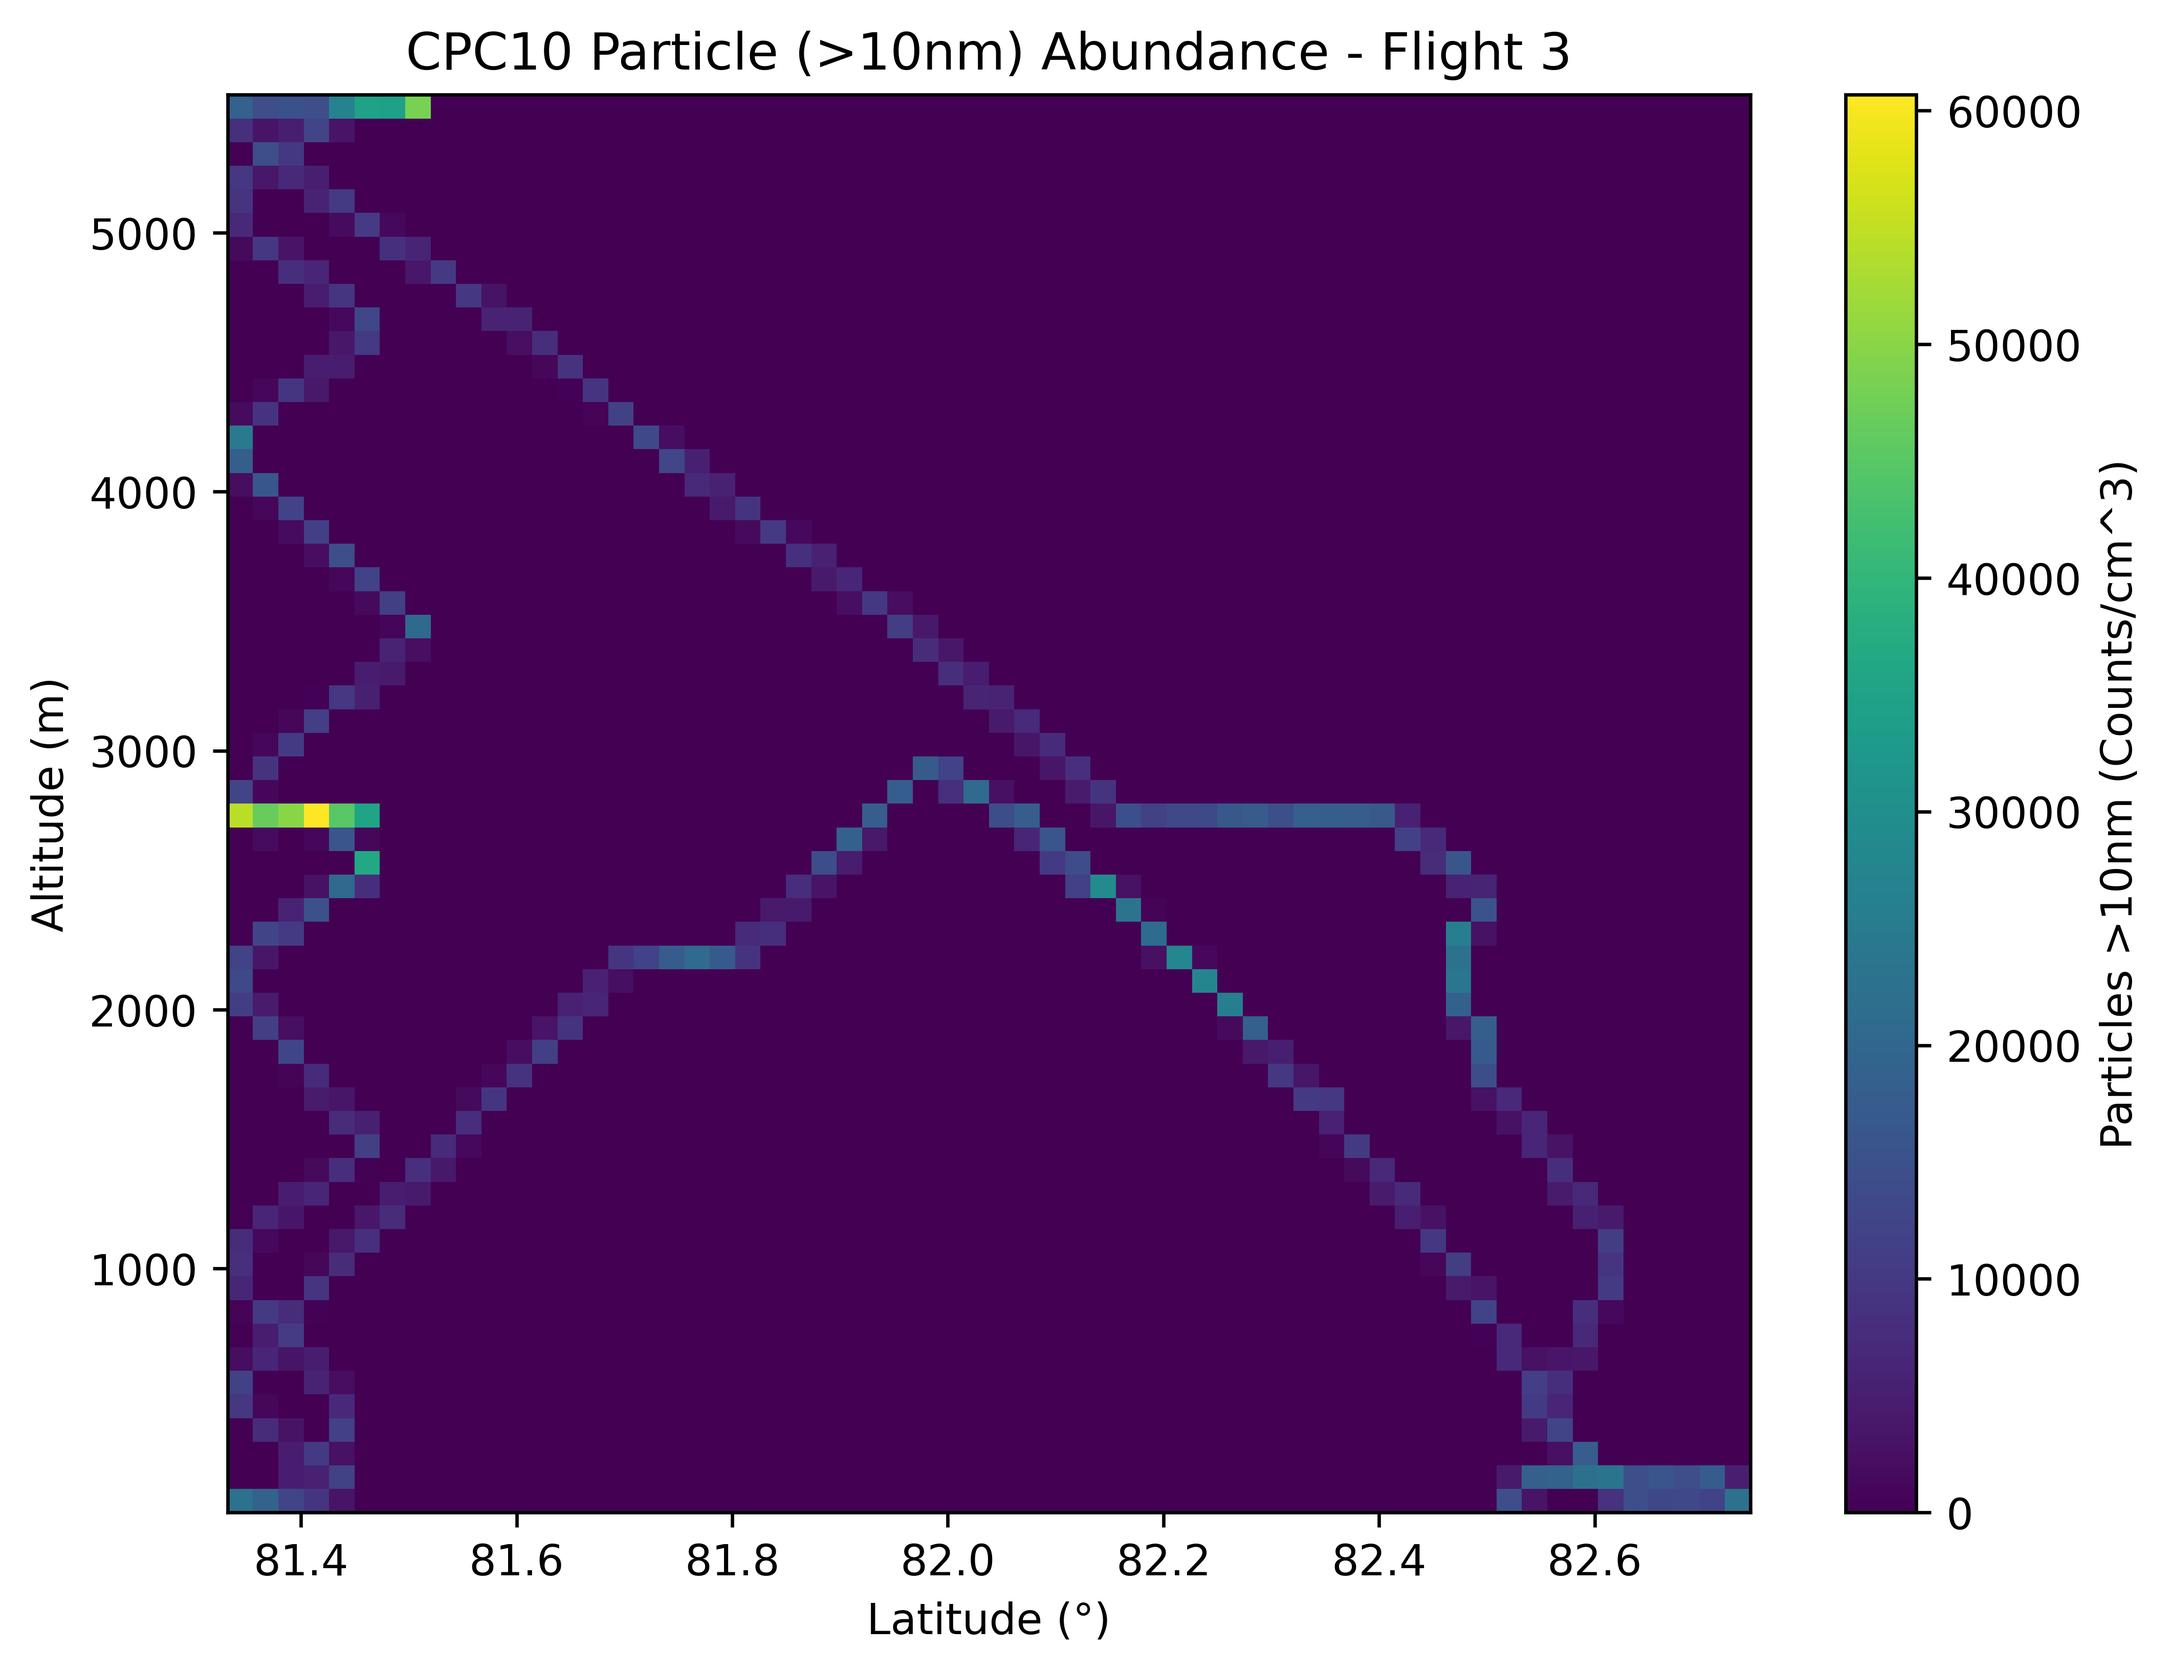
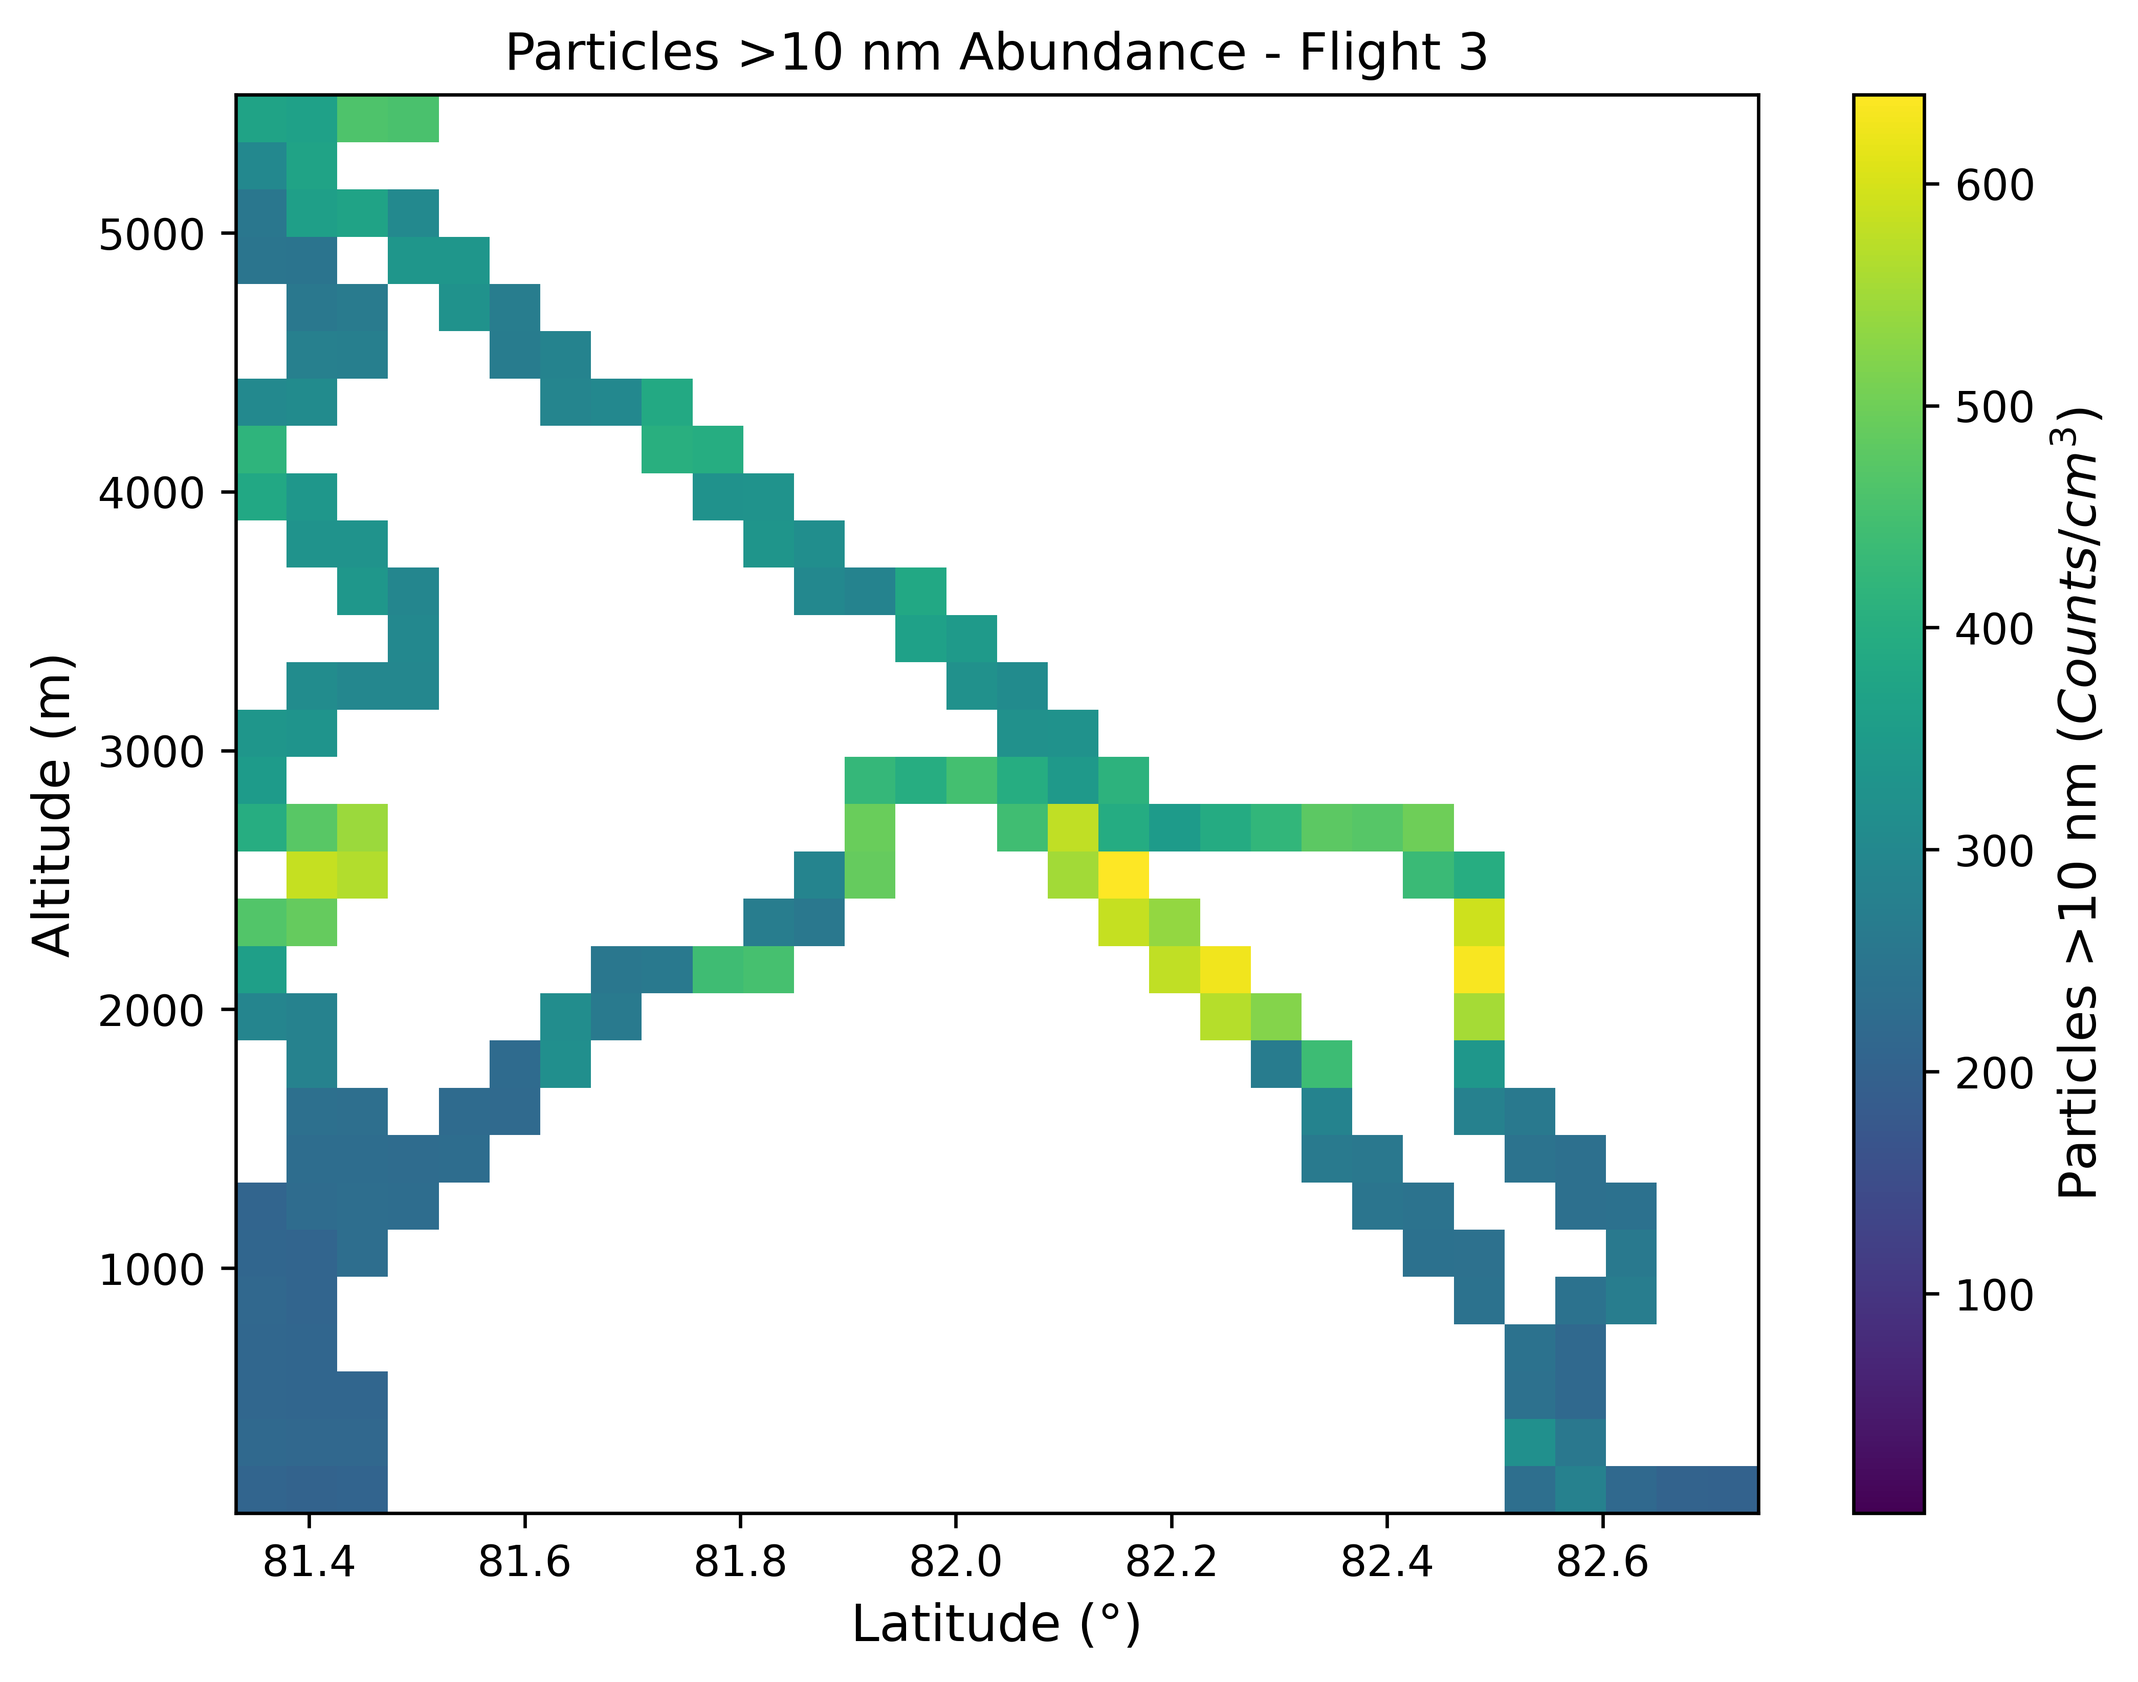
Updated labels, switched incorrectly named CPC3 and CPC10 variables, changed empty histogram boxes to white, changed histogram method from numpy to scipy to easily display median value in each bin and allow handling of NaNs, columns with NaNs are no longer dropped, and all CPC data is put in a singl

diff --git a/src/CurtainPlots/AltitudeLatitudeBinnedCurtainPlot.py b/src/CurtainPlots/AltitudeLatitudeBinnedCurtainPlot.py
@@ -11,6 +11,7 @@ import glob
 import numpy as np
 import pandas as pd
 import matplotlib.pyplot as plt 
+from scipy.stats import binned_statistic_2d
 
 #########################
 ##--Open ICARTT Files--##
@@ -20,7 +21,7 @@ import matplotlib.pyplot as plt
 directory = r"C:\Users\repooley\REP_PhD\NETCARE2015\data"
 
 ##--Select flight (Flight1 thru Flight10)--##
-flight = "Flight2" ##--Flight1 AIMMS file currently broken at line 13234--##
+flight = "Flight2" # Flight1 AIMMS file currently broken at line 13234
 
 ##--Define function that creates datasets from filenames--##
 def find_files(directory, flight, partial_name):
@@ -33,8 +34,8 @@ def find_files(directory, flight, partial_name):
 aimms = icartt.Dataset(find_files(directory, flight, "AIMMS_POLAR6")[0])
 
 ##--CPC data--##
-CPC3 = icartt.Dataset(find_files(directory, flight, 'CPC3772')[0])
-CPC10 = icartt.Dataset(find_files(directory, flight, 'CPC3776')[0])
+CPC10 = icartt.Dataset(find_files(directory, flight, 'CPC3772')[0])
+CPC3 = icartt.Dataset(find_files(directory, flight, 'CPC3776')[0])
 
 #################
 ##--Pull data--##
@@ -140,54 +141,40 @@ for CPC10, T, P in zip(CPC10_conc_aligned, temperature, pressure):
 ##--Create 2D histogram--##
 ###########################
 
-##--Creates a Pandas dataframe for CPC3 data--##
-CPC3_df = pd.DataFrame({'Altitude': altitude, 'Latitude': latitude, 'CPC3_conc':CPC3_conc_STP})
+##--Creates a Pandas dataframe for CPC data--##
+CPC_df = pd.DataFrame({'Altitude': altitude, 'Latitude': latitude, 'CPC3_conc':CPC3_conc_STP, 'CPC10_conc': CPC10_conc_STP})
 
-##--Drop any rows in the dataframe where a NaN appears to make numpy histogram--##
-##--Created separate df for each CPC and nuc particles to preserve as much data as possible--##
-CPC3_clean_df = CPC3_df.dropna()
-
-##--Create dataframe for CPC10 data--##
-CPC10_df = pd.DataFrame({'Altitude':altitude, 'Latitude':latitude, 'CPC10_conc': CPC10_conc_STP})
-
-##--Drop NaNs--##
-CPC10_clean_df = CPC10_df.dropna()
-
-##--Create dataframe for nucleating particles (append later)--##
-nuc_df = pd.DataFrame({'Altitude': altitude, 'Latitude' :latitude, 'CPC3_conc' : CPC3_conc_STP, 'CPC10_conc': CPC10_conc_STP})
-
-##--Nucleation Mode Particles--##
-nuc_particles = (nuc_df['CPC3_conc'] - nuc_df['CPC10_conc'])
+##--Calculate N3-10 particles--##
+nuc_particles = (CPC_df['CPC3_conc'] - CPC_df['CPC10_conc'])
 
 ##--Change calculated particle counts less than zero to NaN--##
 nuc_particles = np.where(nuc_particles >= 0, nuc_particles, np.nan)
 
 ##--Append the dataframe with nucleated particles--##
-nuc_df['nuc_particles'] = nuc_particles
-
-##--Drop NaNs--##
-nuc_clean_df = nuc_df.dropna()
+CPC_df['nuc_particles'] = nuc_particles
 
 ##--Define number of bins here--##
-num_bins = 60
+num_bins = 30
 
-##--Compute 2D histogram for CPC3 (particle abundance in each altitude-latitude bin)--##
-CPC3_lat_bin_edges = np.linspace(CPC3_clean_df['Latitude'].min(), CPC3_clean_df['Latitude'].max(), num_bins + 1)
-CPC3_alt_bin_edges = np.linspace(CPC3_clean_df['Altitude'].min(), CPC3_clean_df['Altitude'].max(), num_bins + 1)
-CPC3_particle_abundance, CPC3_x_edges, CPC3_y_edges = np.histogram2d(CPC3_clean_df['Latitude'], CPC3_clean_df['Altitude'], 
-   bins=[CPC3_lat_bin_edges, CPC3_alt_bin_edges], weights=CPC3_clean_df['CPC3_conc'])
+##--Determine CPC3 bin edges--##
+CPC3_lat_bin_edges = np.linspace(CPC_df['Latitude'].min(), CPC_df['Latitude'].max(), num_bins + 1)
+CPC3_alt_bin_edges = np.linspace(CPC_df['Altitude'].min(), CPC_df['Altitude'].max(), num_bins + 1)
+
+##--Make 2d histogram for CPC3 and compute median particle abundance in each bin--##
+CPC3_bin_medians, CPC3_x_edges, CPC3_y_edges, _ = binned_statistic_2d(CPC_df['Latitude'], 
+    CPC_df['Altitude'], CPC_df['CPC3_conc'], statistic='median', bins=[CPC3_lat_bin_edges, CPC3_alt_bin_edges])
 
 ##--Histogram for CPC10--##
-CPC10_lat_bin_edges = np.linspace(CPC10_clean_df['Latitude'].min(), CPC10_clean_df['Latitude'].max(), num_bins + 1)
-CPC10_alt_bin_edges = np.linspace(CPC10_clean_df['Altitude'].min(), CPC10_clean_df['Altitude'].max(), num_bins +1)
-CPC10_particle_abundance, CPC10_x_edges, CPC10_y_edges = np.histogram2d(CPC10_clean_df['Latitude'], CPC10_clean_df['Altitude'],
-   bins=[CPC10_lat_bin_edges, CPC10_alt_bin_edges], weights=CPC10_clean_df['CPC10_conc'])
+CPC10_lat_bin_edges = np.linspace(CPC_df['Latitude'].min(), CPC_df['Latitude'].max(), num_bins + 1)
+CPC10_alt_bin_edges = np.linspace(CPC_df['Altitude'].min(), CPC_df['Altitude'].max(), num_bins +1)
+CPC10_bin_medians, CPC10_x_edges, CPC10_y_edges, _ = binned_statistic_2d(CPC_df['Latitude'], 
+    CPC_df['Altitude'], CPC_df['CPC10_conc'], statistic='median', bins=[CPC10_lat_bin_edges, CPC10_alt_bin_edges])
 
 ##--Histogram for nucleation mode particles--##
-nuc_lat_bin_edges = np.linspace(nuc_clean_df['Latitude'].min(), nuc_clean_df['Latitude'].max(), num_bins +1)
-nuc_alt_bin_edges = np.linspace(nuc_clean_df['Altitude'].min(), nuc_clean_df['Altitude'].max(), num_bins +1)
-nuc_particle_abundance, nuc_x_edges, nuc_y_edges = np.histogram2d(nuc_clean_df['Latitude'], nuc_clean_df['Altitude'], 
-   bins=[nuc_lat_bin_edges, nuc_alt_bin_edges], weights=nuc_clean_df['nuc_particles'])
+nuc_lat_bin_edges = np.linspace(CPC_df['Latitude'].min(), CPC_df['Latitude'].max(), num_bins +1)
+nuc_alt_bin_edges = np.linspace(CPC_df['Altitude'].min(), CPC_df['Altitude'].max(), num_bins +1)
+nuc_bin_medians, nuc_x_edges, nuc_y_edges, _ = binned_statistic_2d(CPC_df['Latitude'], 
+    CPC_df['Altitude'], CPC_df['nuc_particles'], statistic='median', bins=[nuc_lat_bin_edges, nuc_alt_bin_edges])
 
 ################
 ##--PLOTTING--##
@@ -196,18 +183,23 @@ nuc_particle_abundance, nuc_x_edges, nuc_y_edges = np.histogram2d(nuc_clean_df['
 ##--Particles larger than 3 nm--##
 fig1, ax1 = plt.subplots(figsize=(8, 6))
 
-# Use pcolormesh for the plot
-CPC3_plot = ax1.pcolormesh(CPC3_x_edges, CPC3_y_edges, CPC3_particle_abundance.T,  # Transpose to align correctly
-    shading='auto', cmap='viridis')
+##--Make special color map where 0 values are white--##
+new_cmap = plt.get_cmap('viridis')
+##--Values under specified minimum will be white--##
+new_cmap.set_under('w')
 
-# Add colorbar
+##--Use pcolormesh for the plot, set minimum value for viridis colors as 1--##
+CPC3_plot = ax1.pcolormesh(CPC3_x_edges, CPC3_y_edges, CPC3_bin_medians.T,  # Transpose to align correctly
+    shading='auto', cmap=new_cmap, vmin=1)
+
+##--Add colorbar--##
 cb = fig1.colorbar(CPC3_plot, ax=ax1)
-cb.set_label('Particles >3nm (Counts/cm^3)')
+cb.set_label('Particles >2.5 nm $(Counts/cm^{3})$', fontsize=12)
 
 # Set axis labels
-ax1.set_xlabel('Latitude (°)')
-ax1.set_ylabel('Altitude (m)')
-ax1.set_title(f"CPC3 Particle (>3nm) Abundance - {flight.replace('Flight', 'Flight ')}")
+ax1.set_xlabel('Latitude (°)', fontsize=12)
+ax1.set_ylabel('Altitude (m)', fontsize=12)
+ax1.set_title(f"Particles >2.5 nm Abundance - {flight.replace('Flight', 'Flight ')}")
 
 ##--Base output path in directory--##
 output_path = r"C:\Users\repooley\REP_PhD\NETCARE2015\data\processed\CurtainPlots\CPC3"
@@ -222,18 +214,18 @@ plt.show()
 ##--Particles larger than 10 nm--##
 fig2, ax2 = plt.subplots(figsize=(8, 6))
 
-# Use pcolormesh for the plot
-CPC10_plot = ax2.pcolormesh(CPC10_x_edges, CPC10_y_edges, CPC10_particle_abundance.T,  # Transpose to align correctly
-    shading='auto', cmap='viridis')
+##--Use pcolormesh for the plot, set minimum for viridis colors as 1--##
+CPC10_plot = ax2.pcolormesh(CPC10_x_edges, CPC10_y_edges, CPC10_bin_medians.T,  # Transpose to align correctly
+    shading='auto', cmap=new_cmap, vmin=1)
 
-# Add colorbar
+##--Add colorbar--##
 cb2 = fig2.colorbar(CPC10_plot, ax=ax2)
-cb2.set_label('Particles >10nm (Counts/cm^3)')
+cb2.set_label('Particles >10 nm $(Counts/cm^{3})$', fontsize=12)
 
-# Set axis labels
-ax2.set_xlabel('Latitude (°)')
-ax2.set_ylabel('Altitude (m)')
-ax2.set_title(f"CPC10 Particle (>10nm) Abundance - {flight.replace('Flight', 'Flight ')}")
+##--Set axis labels--##
+ax2.set_xlabel('Latitude (°)', fontsize=12)
+ax2.set_ylabel('Altitude (m)', fontsize=12)
+ax2.set_title(f"Particles >10 nm Abundance - {flight.replace('Flight', 'Flight ')}")
 
 ##--Base output path in directory--##
 output_path = r"C:\Users\repooley\REP_PhD\NETCARE2015\data\processed\CurtainPlots\CPC10"
@@ -248,18 +240,18 @@ plt.show()
 ##--Nucleating particles--##
 fig3, ax3 = plt.subplots(figsize=(8, 6))
 
-# Use pcolormesh for the plot
-nuc_plot = ax3.pcolormesh(nuc_x_edges, nuc_y_edges, nuc_particle_abundance.T,  # Transpose to align correctly
-    shading='auto', cmap='viridis')
+##--Use pcolormesh for the plot and use viridis for values greater than 1--##
+nuc_plot = ax3.pcolormesh(nuc_x_edges, nuc_y_edges, nuc_bin_medians.T,  # Transpose to align correctly
+    shading='auto', cmap=new_cmap, vmin=1)
 
-# Add colorbar
+##--Add colorbar--##
 cb3 = fig3.colorbar(nuc_plot, ax=ax3)
-cb3.set_label('Particles (Counts/cm^3)')
+cb3.set_label('2.5-10 nm Particles $(Counts/cm^{3})$', fontsize=12)
 
-# Set axis labels
-ax3.set_xlabel('Latitude (°)')
-ax3.set_ylabel('Altitude (m)')
-ax3.set_title(f"Nucleating Particle Abundance - {flight.replace('Flight', 'Flight ')}")
+##--Set axis labels--##
+ax3.set_xlabel('Latitude (°)', fontsize=12)
+ax3.set_ylabel('Altitude (m)', fontsize=12)
+ax3.set_title(f"2.5-10 nm Particle Abundance - {flight.replace('Flight', 'Flight ')}")
 
 ##--Base output path in directory--##
 output_path = r"C:\Users\repooley\REP_PhD\NETCARE2015\data\processed\CurtainPlots\Nucleating"
